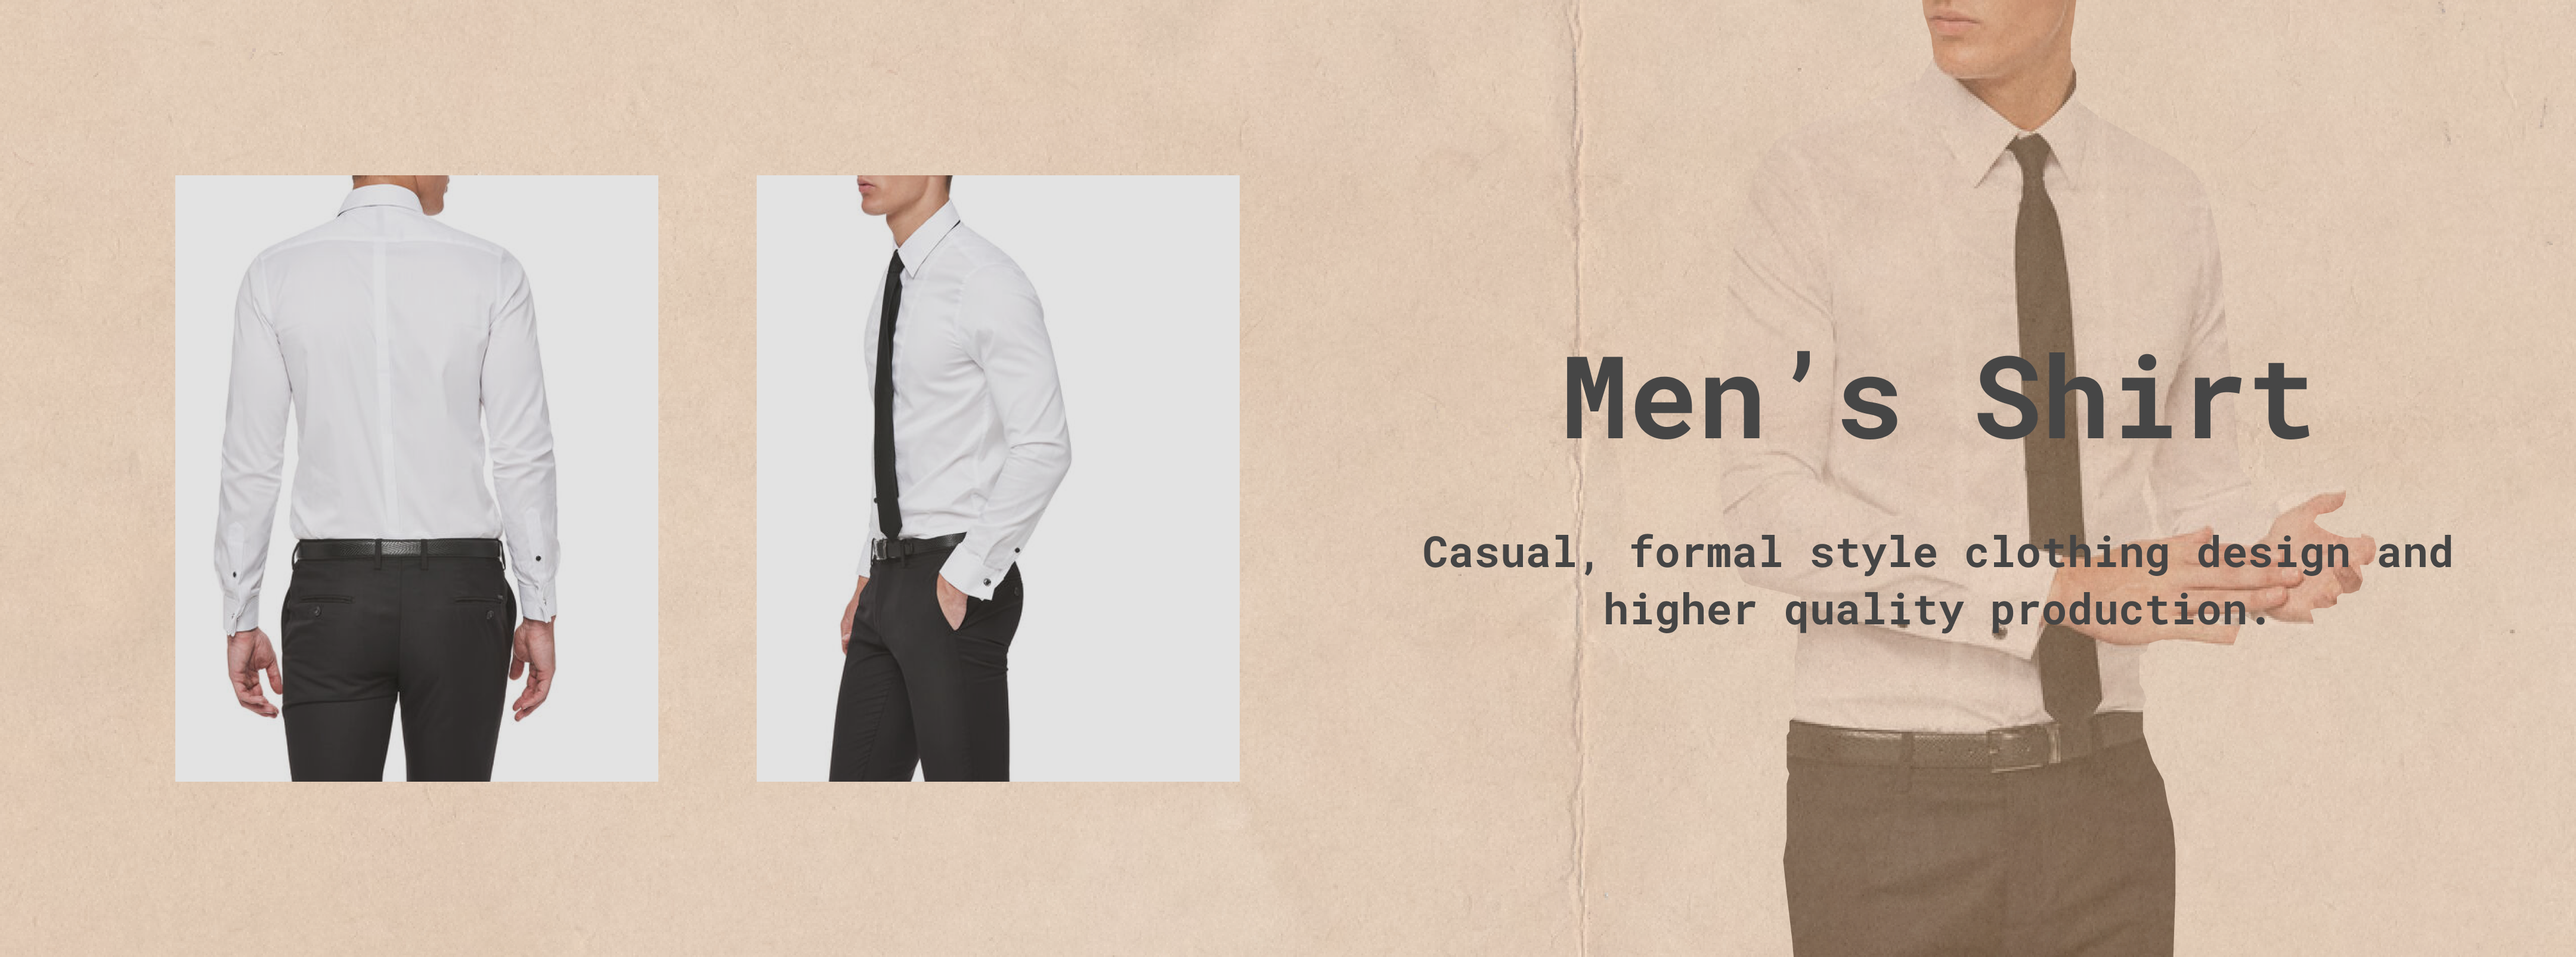
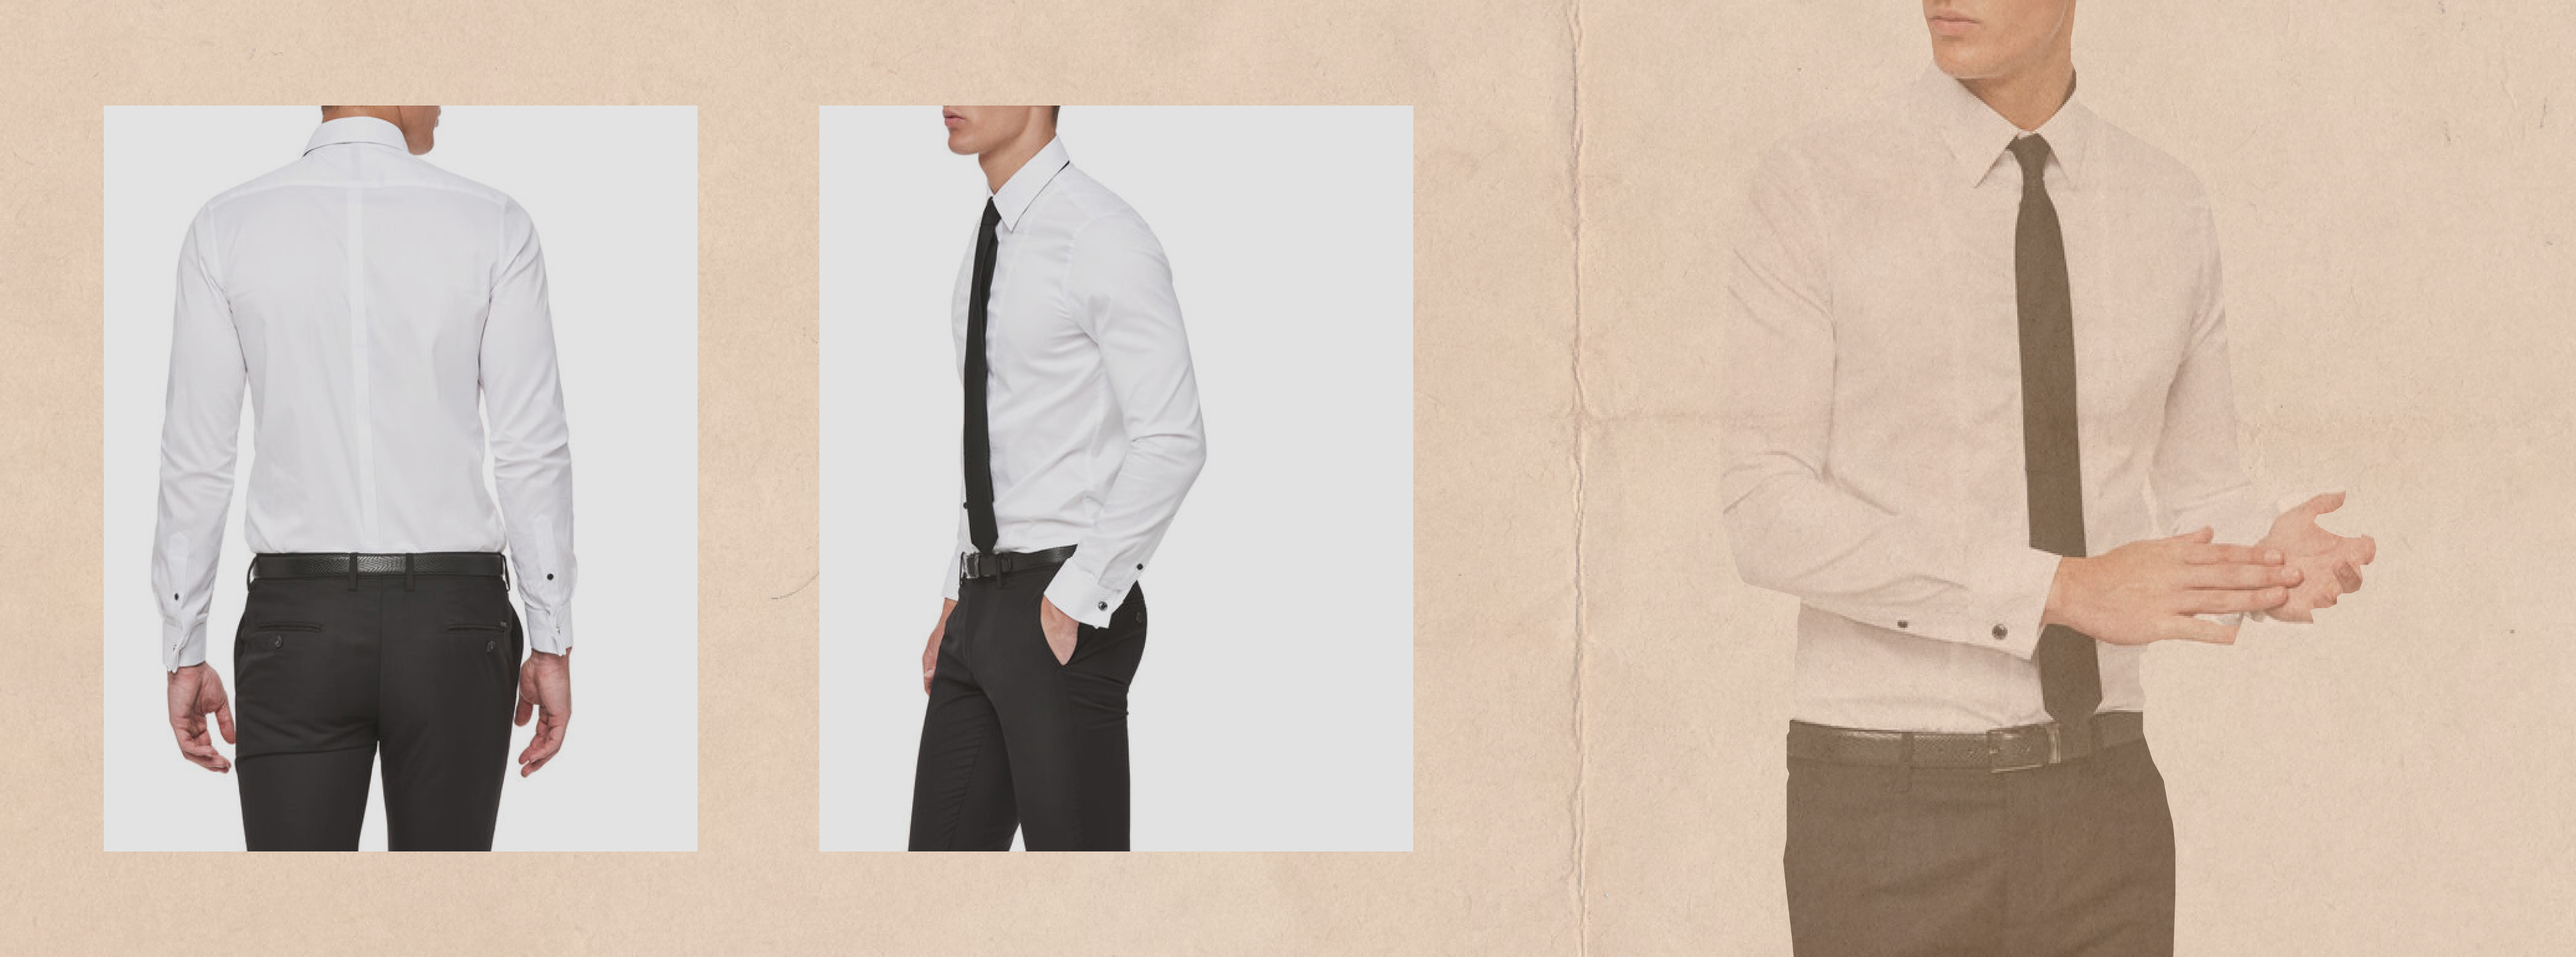
Update lang, change image

diff --git a/pages/contact.vue b/pages/contact.vue
@@ -1,6 +1,6 @@
 <template>
   <div>
-    <div class="tu-banner-wrapper">
+    <!-- <div class="tu-banner-wrapper">
       <img
         src="~/assets/images/banners/banner_contact_1.jpg"
         alt="banner_contact"
@@ -12,12 +12,20 @@
           </el-col>
         </el-row>
       </div>
-    </div>
-      <el-row type="flex" justify="center" class="mt4">
-        <el-col :xl="14" :lg="18" :md="22" :sm="24">
-          <el-row type="flex" justify="center">
-            <el-col :xl="14" :lg="14" :md="14" :sm="24" class="box">
-              <h1 class="underline-2">{{ $t('contact_us') }}</h1>
+    </div> -->
+    <TuImage
+      :src="require(`~/assets/images/banners/banner_contact_1.jpg`)"
+      :text="$t('contact_description')"
+      :text-width="70"
+      padding-bottom="33"
+      class="banner"
+    />
+    <el-row type="flex" justify="center" class="mt4">
+      <el-col :xl="14" :lg="18" :md="22" :sm="24">
+        <el-row type="flex" justify="center" class="flex-wrap">
+          <el-col :xl="14" :lg="14" :md="14" :sm="14" :xs="24">
+            <div class="box">
+                <h1 class="underline-2">{{ $t('contact_us') }}</h1>
               <p>
                 {{ $t('feel_free_contact') }}
               </p>
@@ -54,8 +62,10 @@
                   <el-button class="tu-button">{{ $t('send') }}</el-button>
                 </div>
               </el-form>
-            </el-col>
-            <el-col :xl="10" :lg="10" :md="10" :sm="24" class="box"> 
+            </div>
+          </el-col>
+          <el-col :xl="10" :lg="10" :md="10" :sm="10" :xs="24">
+            <div class="box">
               <h2>Info</h2>
               <div class="taki" style="margin-top: 46px">
                 <i class="el-icon-message" />
@@ -69,10 +79,11 @@
                 <i class="el-icon-location-outline" />
                 <span class="txt">{{ $t('address') }}</span>
               </div>
-            </el-col>
-          </el-row>
-        </el-col>
-      </el-row>
+            </div>
+          </el-col>
+        </el-row>
+      </el-col>
+    </el-row>
   </div>
 </template>
 
@@ -110,35 +121,13 @@ export default {
 .clearfixed {
   margin-top: calc(54px + 1.5rem);
 }
-.tu-banner-wrapper {
-  padding-bottom: 32%;
-  position: relative;
-  img {
-    position: absolute;
-    top: 0;
-    left: 0;
-    width: 100%;
-    height: 100%;
-    object-fit: cover;
-  }
-  .content {
-    position: absolute;
-    width: 100%;
-    height: 100%;
-    color: #fff;
-    font-weight: 400;
-    font-size: 2.5rem;
-    display: flex;
-    align-items: center;
-    justify-content: center;
-  }
-}
 .box {
   padding: 18px;
   margin: 0 16px;
   background: #fff;
   border-radius: 16px;
   box-shadow: 0px 0px 13px 0px rgba(0, 0, 0, 0.08);
+  height: 100%;
 }
 .tu-button {
   padding: 12px 52px;

diff --git a/pages/products/men.vue b/pages/products/men.vue
@@ -1,7 +1,14 @@
 <template>
   <div class="tu-section clearspacer">
     <div class="tu-section-content">
-      <TuImage :src="require(`~/assets/images/products/men/banner_top.png`)" />
+      <TuImage
+        :src="require(`~/assets/images/products/men/banner_top.png`)"
+        :text="$t('men_page_description')"
+        :blur="30"
+        :text-width="60"
+        padding-bottom="40"
+        class="banner"
+      />
       <div class="tu-content title-line">{{ $t('polo') }}</div>
       <div class="tu-content">
         <el-row type="flex" justify="center">
@@ -13,7 +20,7 @@
         </el-row>
         <el-row type="flex" justify="center">
           <el-col :xs="24" :sm="24" :md="20" :lg="16">
-            <el-row type="flex" :gutter="isMobile ? 10 : 32">
+            <el-row type="flex" :gutter="32">
               <el-col :span="12">
                 <TuImage
                   :src="require(`~/assets/images/products/men/polo_1.1.jpeg`)"
@@ -28,15 +35,17 @@
           </el-col>
         </el-row>
       </div>
-      <div class="tu-content" style="margin-top: 3rem">
-        <TuImage
-          v-if="!isMobile"
-          :src="require(`~/assets/images/products/men/banner_shirt.png`)"
-        />
-        <TuImage
-          v-else
-          :src="require(`~/assets/images/products/men/banner_shirt_mb.png`)"
-        />
+      
+      <div class="tu-content title-line">{{ $t('shirt') }}</div>
+      <div class="tu-content">
+        <el-row type="flex" justify="center">
+          <el-col :xs="24" :sm="24" :md="18" :lg="12">
+            <p class="text-center" style="margin-bottom: 2rem; line-height: 2">
+              {{ $t('shirt_description') }}
+            </p>
+          </el-col>
+        </el-row>
+        <TuImage :src="require(`~/assets/images/products/men/banner_shirt.png`)" />
       </div>
       <div class="tu-content title-line">{{ $t('suit') }}</div>
       <div class="tu-content" style="margin-bottom: 2rem">
@@ -74,12 +83,9 @@
 </template>
 
 <script>
-const breakpoint = 550.98
-
 export default {
   data() {
     return {
-      isMobile: false,
       others: [
         {
           img: 'ao_gio.jpeg',
@@ -107,20 +113,6 @@ export default {
         },
       ],
     }
-  },
-  mounted() {
-    this.$nextTick(() => {
-      this.isMobile = window.innerWidth < breakpoint
-      window.addEventListener('resize', this.onResize)
-    })
-  },
-  beforeDestroy() {
-    window.removeEventListener('resize', this.onResize)
-  },
-  methods: {
-    onResize() {
-      this.isMobile = window.innerWidth < breakpoint
-    },
   },
 }
 </script>

diff --git a/components/common/Image.vue b/components/common/Image.vue
@@ -9,7 +9,7 @@
     />
     <div v-else class="loading" />
     <div v-if="blur" class="blur" :style="blurStyle" />
-    <div v-if="text && intersected" class="text">{{ text }}</div>
+    <div v-if="text && intersected" class="text" :style="[textStyle]">{{ text }}</div>
   </div>
 </template>
 
@@ -28,6 +28,10 @@ export default {
     delay: {
       type: Number,
       default: 0,
+    },
+    textWidth: {
+      type: Number,
+      default: 100,
     },
     imgClass: {
       type: String,
@@ -106,6 +110,15 @@ export default {
       }
       return { backgroundColor: `rgba(0, 0, 0, ${this.blur/100})`}
     },
+    textStyle() {
+      if (this.textWidth < 100) {
+        return {
+          width: `${this.textWidth}%`,
+          left: `${(100 - this.textWidth) / 2}%`
+        }
+      }
+      return null;
+    },
     overlay() {
       if (this.paddingBottom) {
         const imgCover = {
@@ -175,6 +188,7 @@ export default {
     font-size: 1.5rem;
     text-transform: uppercase;
     text-align: center;
+    line-height: 1.5;
     @media (min-width: 688px) and (max-width: 1200px) {
       font-size: 1rem;
     }

diff --git a/lang/en-US.js b/lang/en-US.js
@@ -63,6 +63,7 @@ export default {
     'Discover fresh new styles from the most iconic menswear designers, including T-shirts, suits, coats, and jackets...',
   polo: 'Polo',
   polo_description: `Polo shirt has always been Wisermax's main product when it is crystallized from LIQUÉ fabric and specially designed and printed. The feeling of  manly, simple, elegant and luxurious can be encapsulated in a Polo shirt.`,
+  shirt: 'Shirt',
   shirt_description:
     'Casual, formal style clothing design and higher quality production.',
   suit: 'Suit',

diff --git a/pages/products/kids.vue b/pages/products/kids.vue
@@ -14,7 +14,7 @@
         <TuImage :src="require(`~/assets/images/products/kids/boy_${i}.jpeg`)" />
       </el-col>
     </el-row>
-    <div class="title-line">{{ $t('Girls') }}</div>
+    <div class="title-line">{{ $t('girls') }}</div>
     <el-row type="flex" justify="center" class="flex-wrap" :gutter="6">
       <el-col v-for="i in 4" :key="i" :xs="12" :sm="6" :md="6" :lg="6">
         <TuImage :src="require(`~/assets/images/products/kids/girl_${i}.jpeg`)" />

diff --git a/lang/cn-CN.js b/lang/cn-CN.js
@@ -61,6 +61,7 @@ export default {
     '探索最具标志性的男装设计师的全新款式，包括 T 恤、西装、外套和茄克衫……',
   polo: 'Polo衫',
   polo_description: `网球衫一直是Wisermax的主打产品, 由 LIQUÉ 面料结晶而成，经过特殊设计和印花。`,
+  shirt: '衬衫',
   shirt_description: '一般来说、正式风格的服装设计和更高质量的生产。',
   suit: '西装',
   suit_description:
